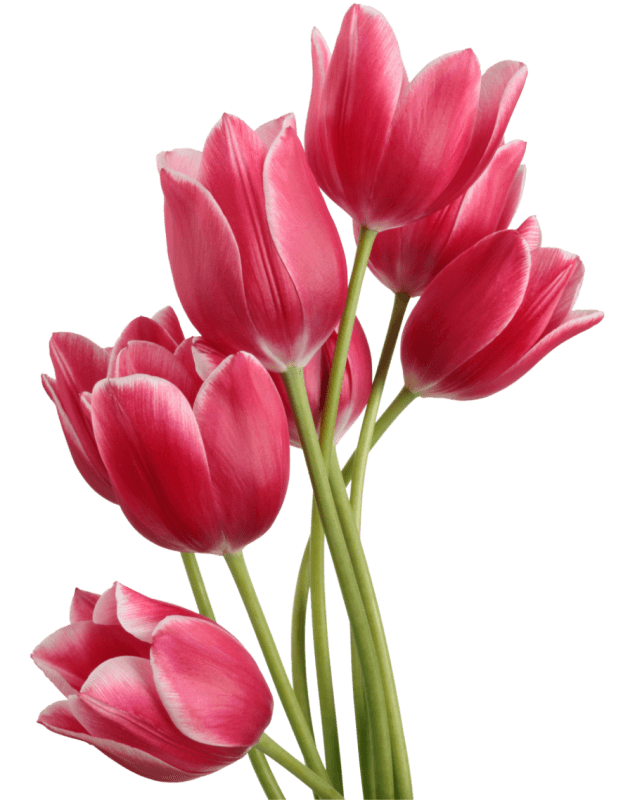
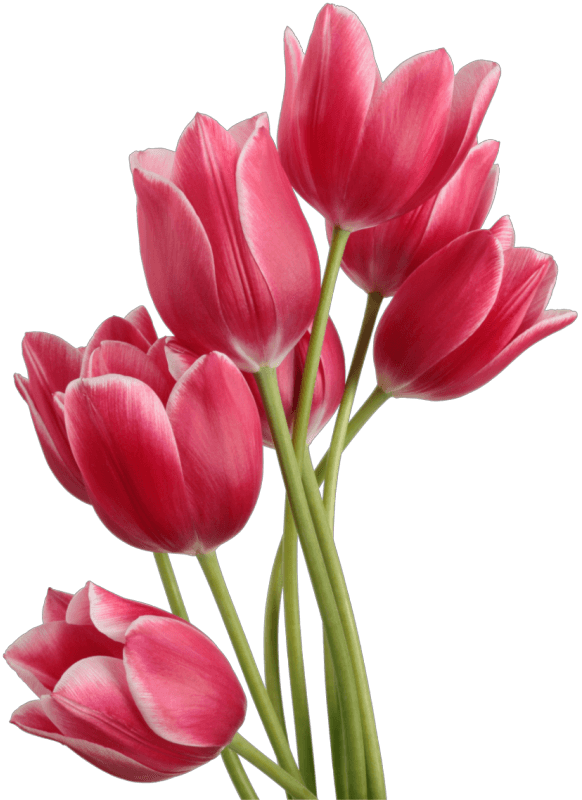
header section style added

Changed region(s): [[0.0, 0.0, 0.9897, 1.0], [0.2474, 0.5938, 0.2784, 0.625]]

diff --git a/index.html b/index.html
@@ -6,16 +6,15 @@
     <title>Document</title>
     <link rel="stylesheet" href="style.css">
     <link rel="preconnect" href="https://fonts.googleapis.com">
-<link rel="preconnect" href="https://fonts.gstatic.com" crossorigin>
-<link href="https://fonts.googleapis.com/css2?family=Lato&display=swap" rel="stylesheet">
+    <link rel="preconnect" href="https://fonts.googleapis.com">
+    <link rel="preconnect" href="https://fonts.gstatic.com" crossorigin>
+    <link href="https://fonts.googleapis.com/css2?family=Lato:wght@400;900&display=swap" rel="stylesheet">
 </head>
 <body>
     <header>
         <div>
             <h1>Let's make<br>beautiful flowers a<br>part of your life</h1>
-            <p>It is a long established fact that a reader will be distracted by the readable 
-                content of a page when looking at its layout. The point of using Lorem Ipsum is 
-                that it has a more-or-less normal distribution of letters</p>
+            <p>Flowers, nature's gift of beauty, grace our world with vibrant colors and captivating scents. They attract pollinators and remind us to find joy in the simplest things, leaving an everlasting impression.</p>
             <button type="button" class="btn-primary">Shop Now</button>
         </div>
         <img src="./Flower Asset/pngwing 10.png" alt="Red Flowers">

diff --git a/style.css b/style.css
@@ -2,28 +2,48 @@
     margin: 0;
     padding: 0;
     border: 0;
+    box-sizing: border-box;
+}
+
+header{
+    height: 100vh;
+    background-color: rgb(229, 84, 115, 10%);
+    display: flex;
+    justify-content: space-evenly;
+    padding: 30px 60px 0px 80px;
+}
+header div{
+    display: flex;
+    flex-direction: column;
+    justify-content: center;
+    width: 515px;
 }
 header h1{
     font-family: 'Lato', sans-serif;
-    font-weight: bolder;
-    font-size: 80px;
+    font-weight: 1000;
+    font-size: 60px;
     color: #272727;
+    margin-bottom: 32px;
 }
 
 header p{
     font-family: 'Lato', sans-serif;
-    font-size: 18px;
+    font-size: 15px;
+    
     color: rgba(39, 39, 39, 60%);
+    margin-bottom: 32px;
+}
+
+header img{
 }
 
 .btn-primary{
     background-color: #E55473;
-    height: 64px;
-    padding: 20px 40px;
+    width: 145px;
+    padding: 18px 0px;
     color: white;
-    font-weight: bold;
     font-family: 'Lato', sans-serif;
-    font-size: 20px;
+    font-size: 18px;
     border: none;
     border-radius: 8px;
 }
